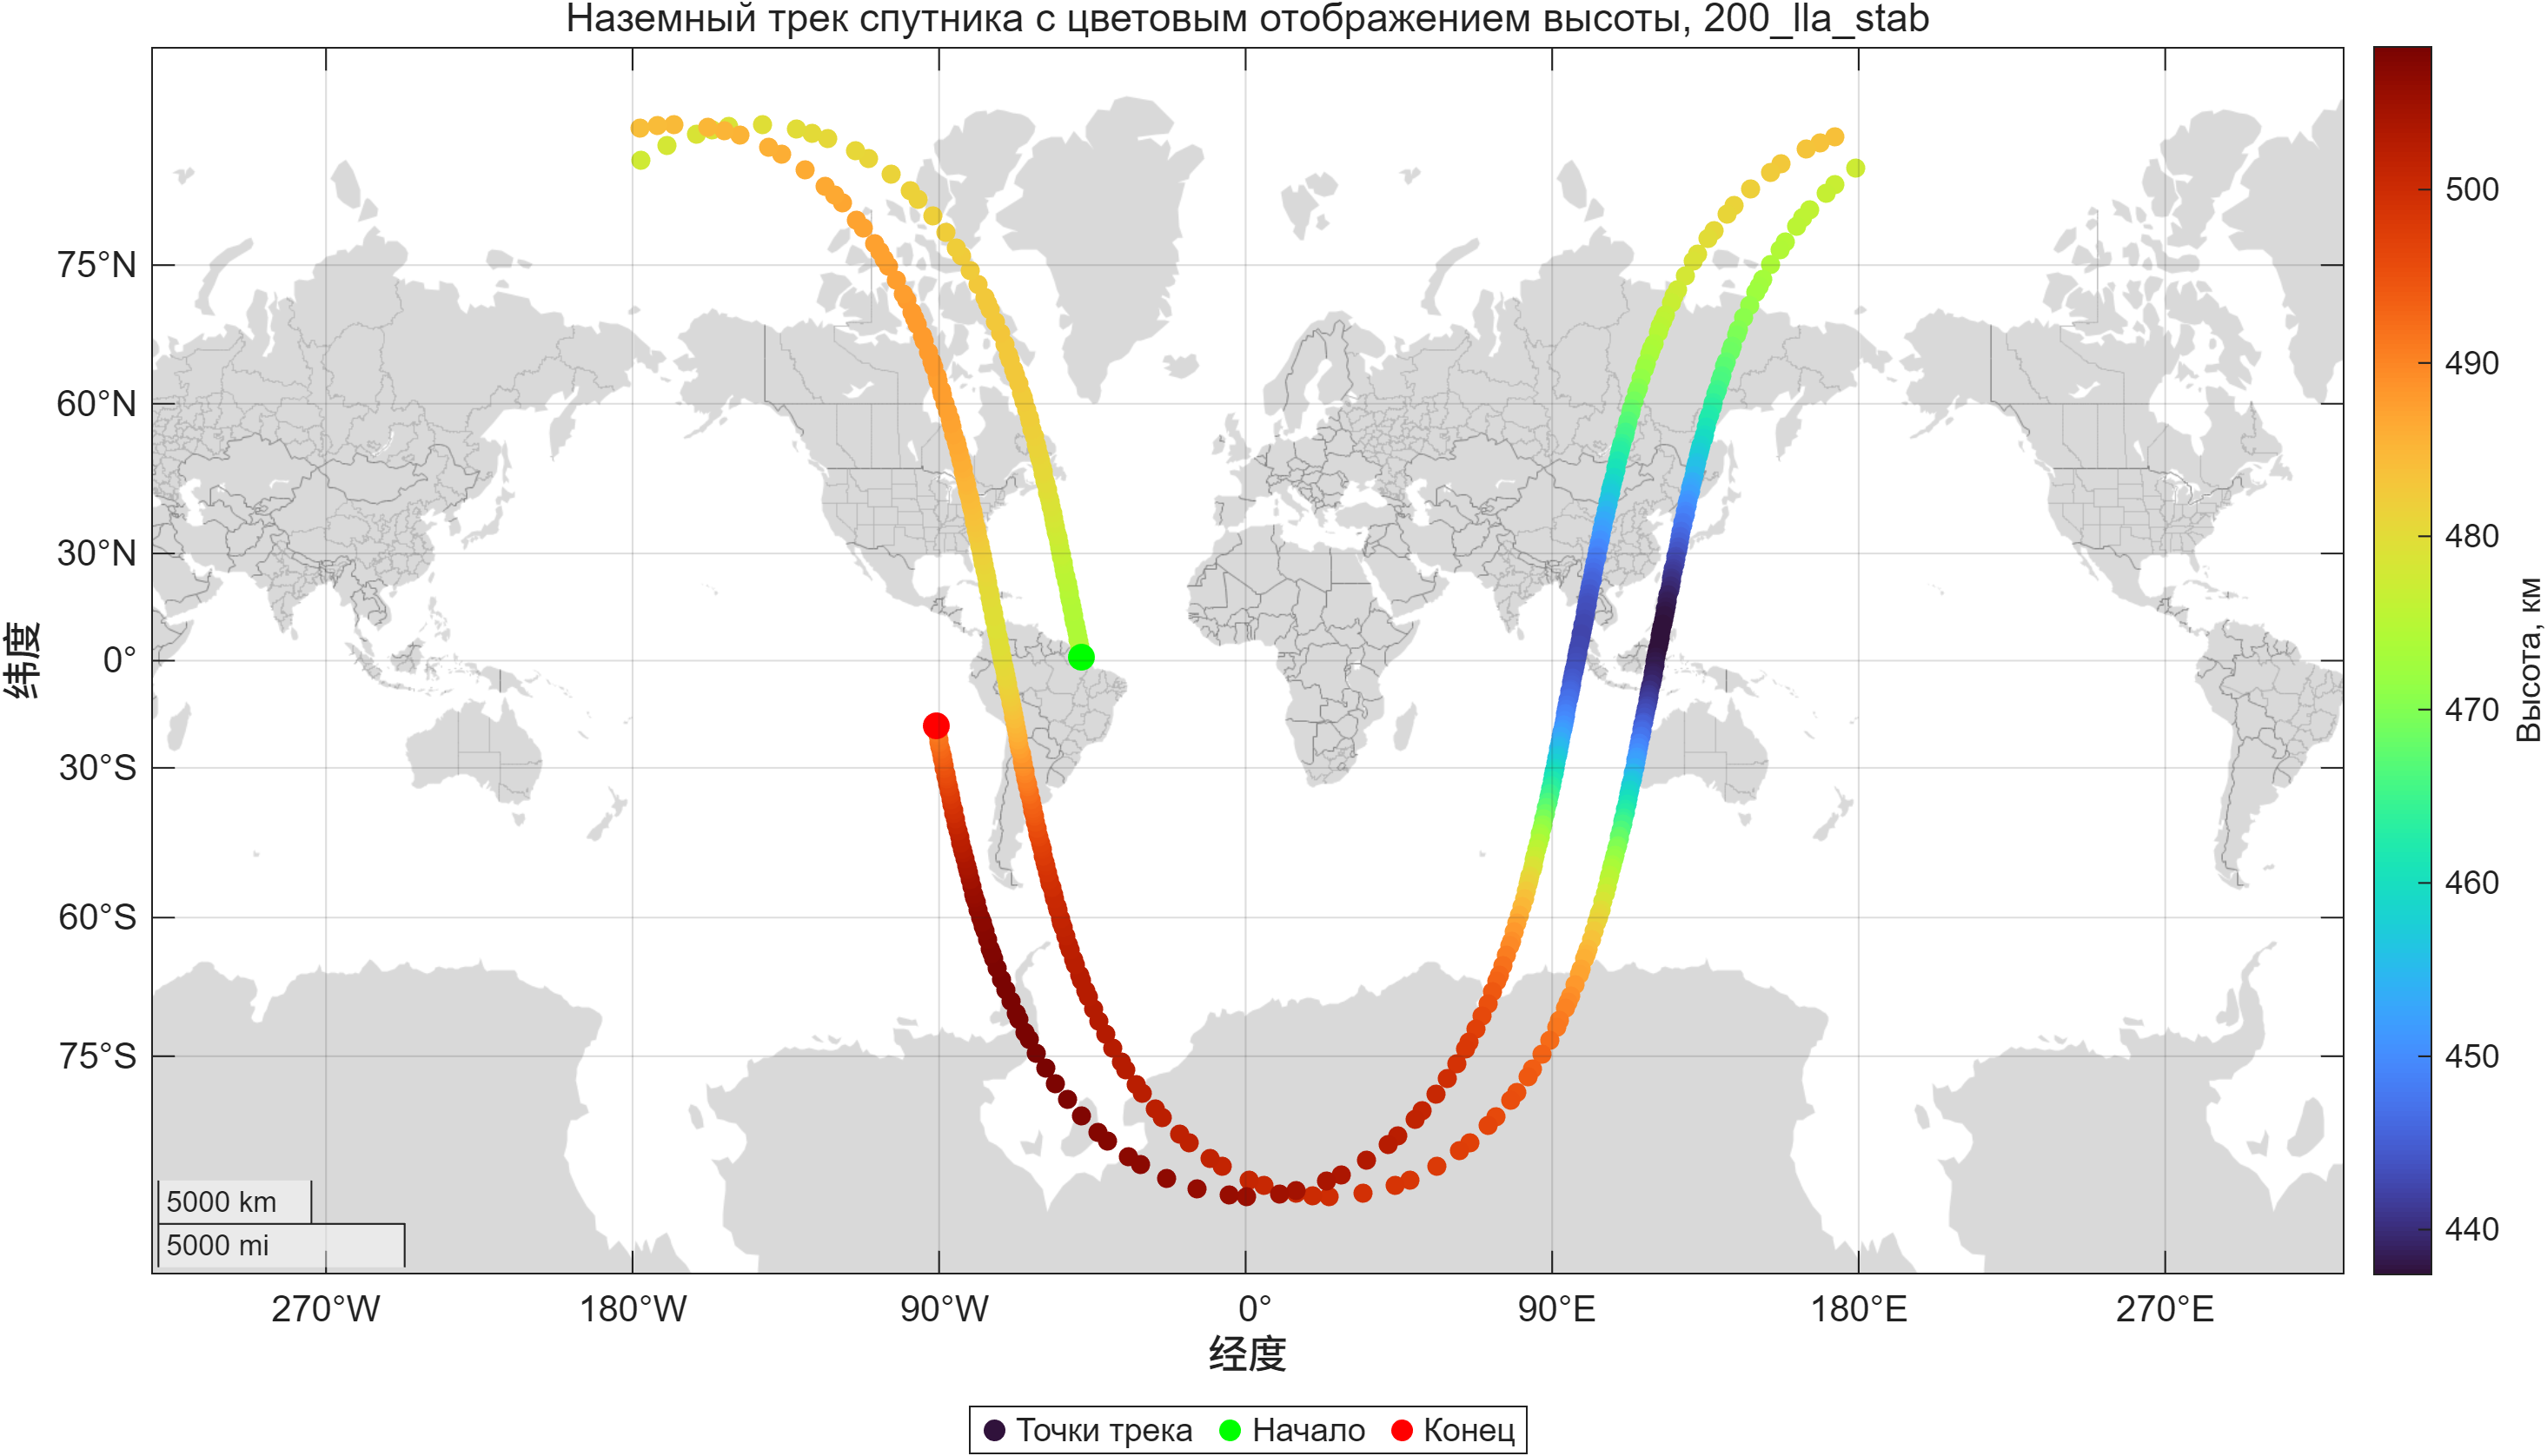
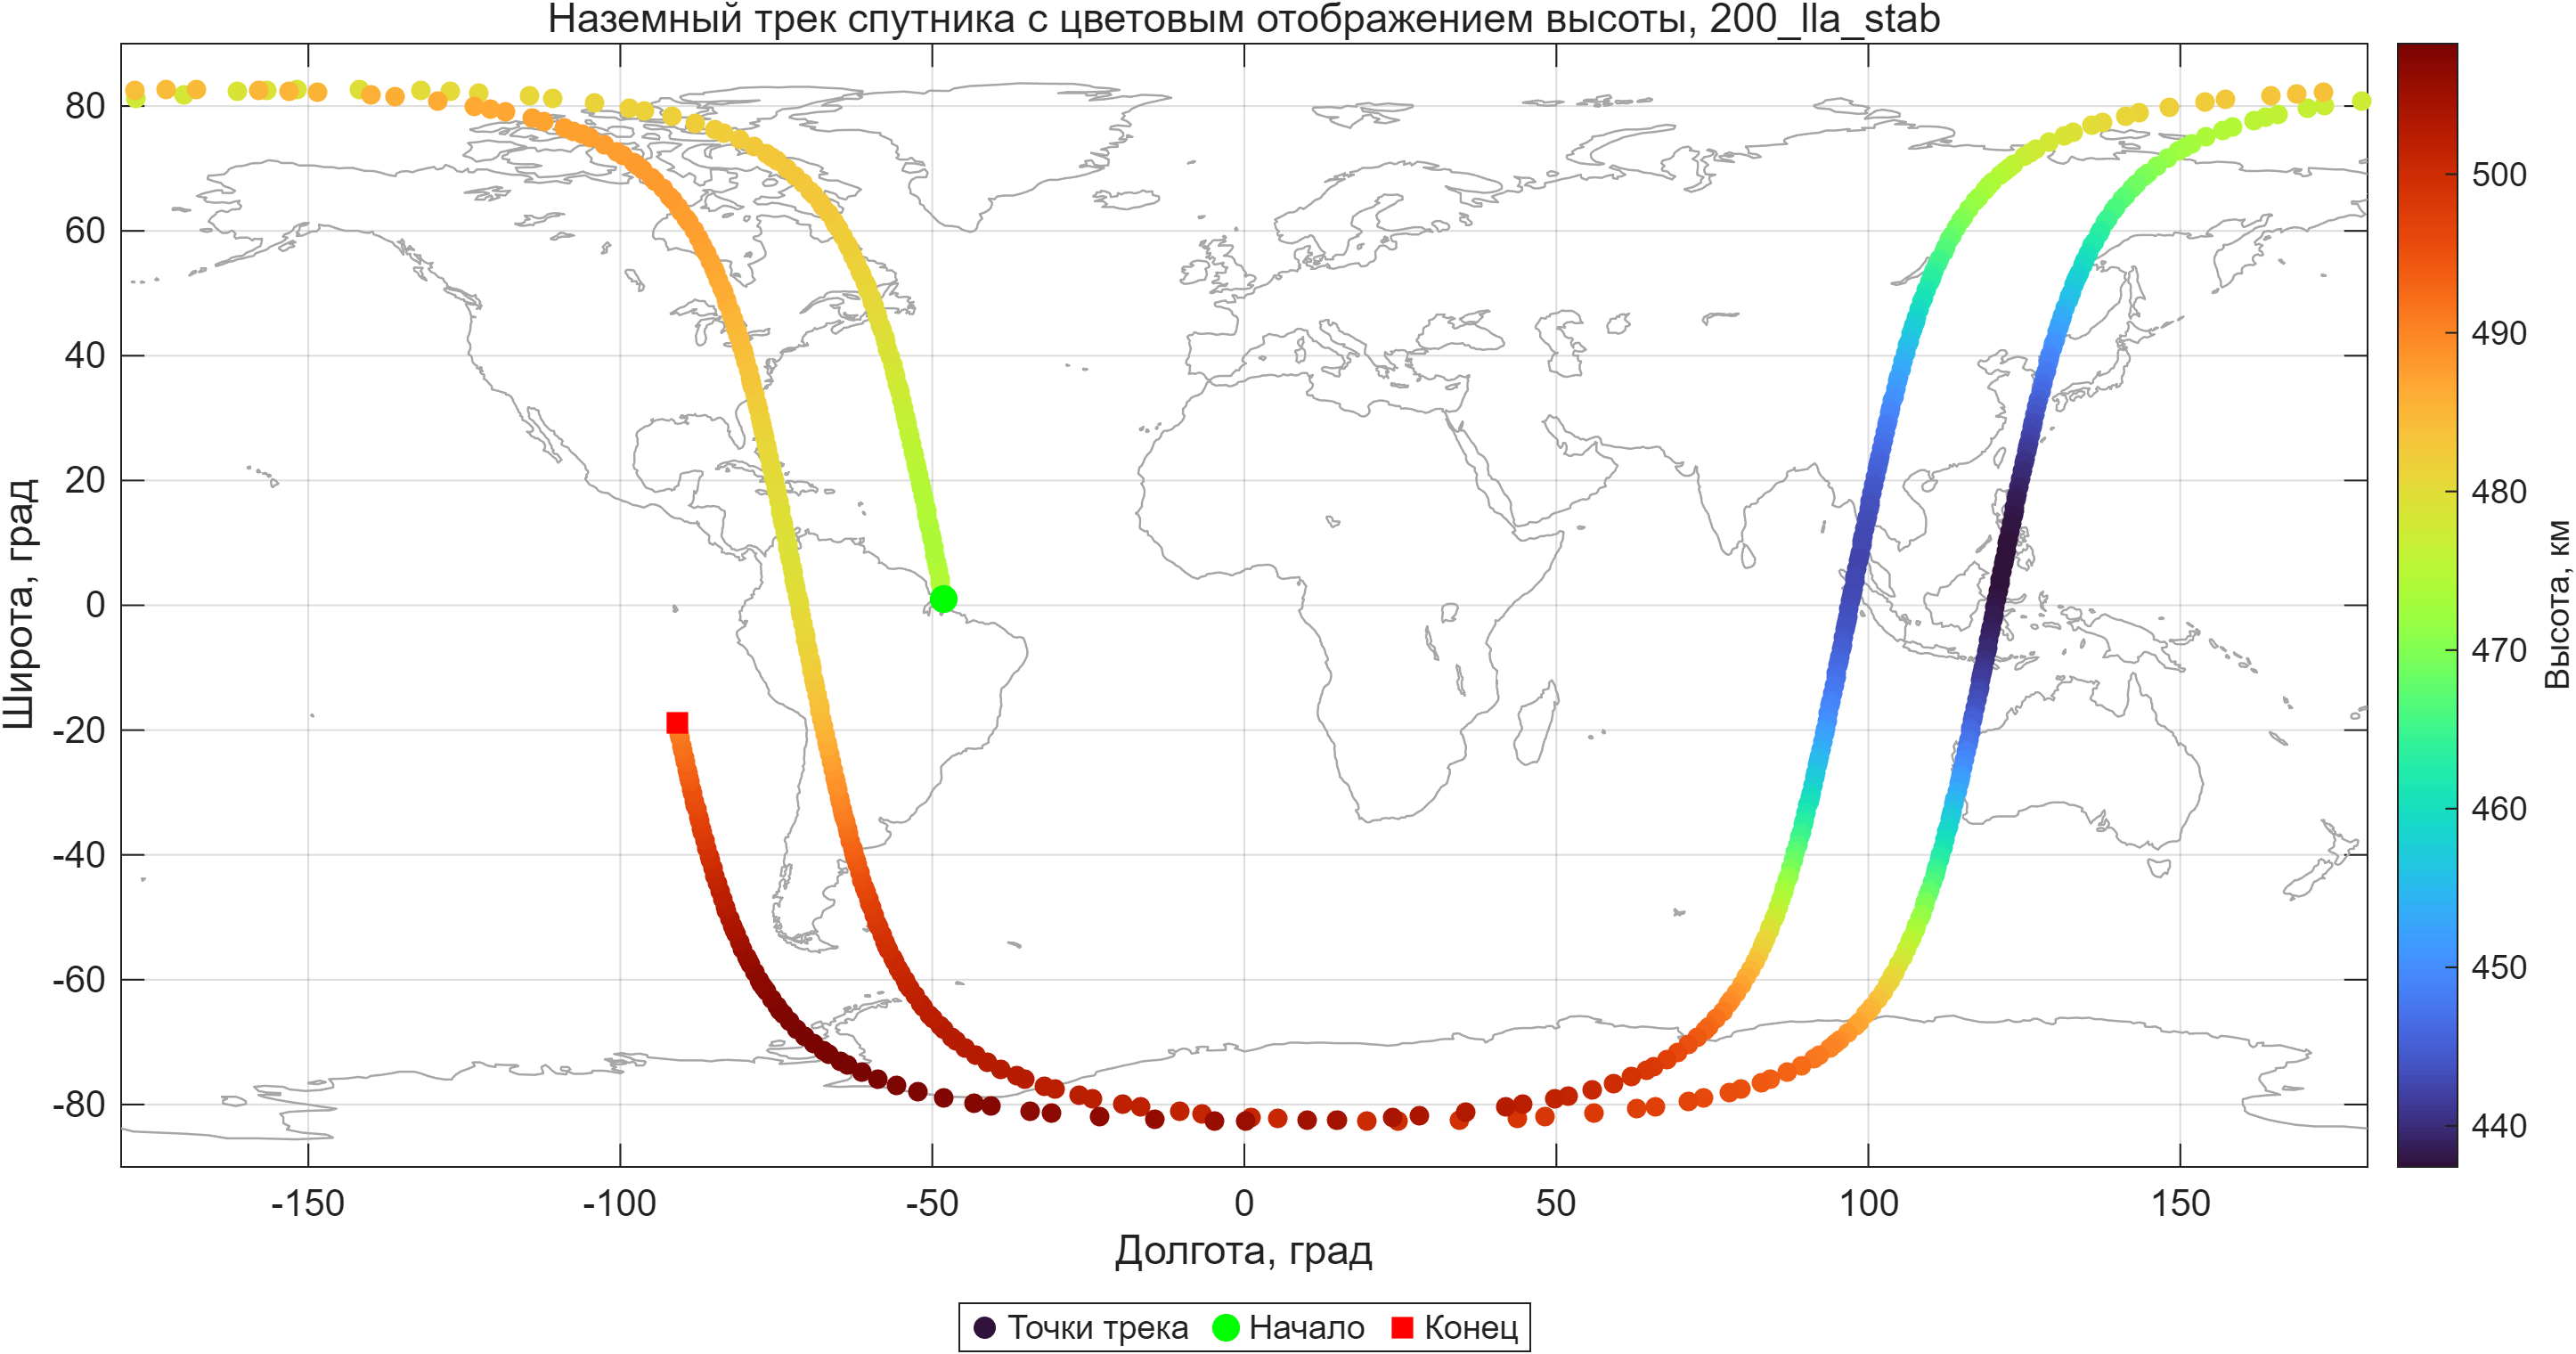
Unify 200_stab ground track style

diff --git a/scripts/analyze_200_stab.m b/scripts/analyze_200_stab.m
@@ -477,47 +477,29 @@ end
 
 function plotGroundTrack(lonDeg, latDeg, altM, figDir)
     fig = figure('Color', 'w', 'Position', [120 120 1100 620]);
-    usedMapBackground = false;
+    hold on;
 
-    if exist('geoscatter', 'file') == 2 && exist('geobasemap', 'file') == 2
-        try
-            geoscatter(latDeg, lonDeg, 28, altM / 1000, 'filled');
-            geobasemap('grayland');
-            title('Наземный трек спутника с цветовым отображением высоты, 200\_lla\_stab');
-            cb = colorbar;
-            cb.Label.String = 'Высота, км';
-            colormap(turbo);
-            hold on;
-            geoscatter(latDeg(1), lonDeg(1), 55, 'g', 'filled');
-            geoscatter(latDeg(end), lonDeg(end), 55, 'r', 'filled');
-            legend({'Точки трека', 'Начало', 'Конец'}, 'Location', 'southoutside', 'Orientation', 'horizontal');
-            usedMapBackground = true;
-            fprintf('Наземный трек построен на картографической подложке MATLAB.\n');
-        catch ME
-            fprintf('Картографическая подложка недоступна: %s\n', ME.message);
-            fprintf('Будет построен обычный график долгота-широта.\n');
-            clf(fig);
-        end
-    else
-        fprintf('Картографические функции MATLAB недоступны. Будет построен обычный график долгота-широта.\n');
-    end
+    coast = load('coastlines');
+    plot(coast.coastlon, coast.coastlat, 'Color', [0.65 0.65 0.65], ...
+        'LineWidth', 0.6, 'HandleVisibility', 'off');
 
-    if ~usedMapBackground
-        scatter(lonDeg, latDeg, 28, altM / 1000, 'filled');
-        grid on;
-        xlim([-180 180]);
-        ylim([-90 90]);
-        xlabel('Долгота, град');
-        ylabel('Широта, град');
-        title('Наземный трек спутника с цветовым отображением высоты, 200\_lla\_stab');
-        cb = colorbar;
-        cb.Label.String = 'Высота, км';
-        colormap(turbo);
-        hold on;
-        plot(lonDeg(1), latDeg(1), 'go', 'MarkerFaceColor', 'g', 'MarkerSize', 7);
-        plot(lonDeg(end), latDeg(end), 'rs', 'MarkerFaceColor', 'r', 'MarkerSize', 7);
-        legend({'Точки трека', 'Начало', 'Конец'}, 'Location', 'southoutside', 'Orientation', 'horizontal');
-    end
+    hTrack = scatter(lonDeg, latDeg, 28, altM / 1000, 'filled');
+    hStart = plot(lonDeg(1), latDeg(1), 'go', 'MarkerFaceColor', 'g', 'MarkerSize', 7);
+    hEnd = plot(lonDeg(end), latDeg(end), 'rs', 'MarkerFaceColor', 'r', 'MarkerSize', 7);
+
+    xlabel('Долгота, град');
+    ylabel('Широта, град');
+    title('Наземный трек спутника с цветовым отображением высоты, 200_lla_stab', 'Interpreter', 'none');
+    cb = colorbar;
+    cb.Label.String = 'Высота, км';
+    colormap(turbo);
+    xlim([-180 180]);
+    ylim([-90 90]);
+    pbaspect([2 1 1]);
+    grid on;
+    box on;
+    legend([hTrack, hStart, hEnd], {'Точки трека', 'Начало', 'Конец'}, ...
+        'Location', 'southoutside', 'Orientation', 'horizontal');
 
     exportgraphics(fig, fullfile(figDir, 'ground_track_altitude_200_stab.png'), 'Resolution', 300);
     savefig(fig, fullfile(figDir, 'ground_track_altitude_200_stab.fig'));